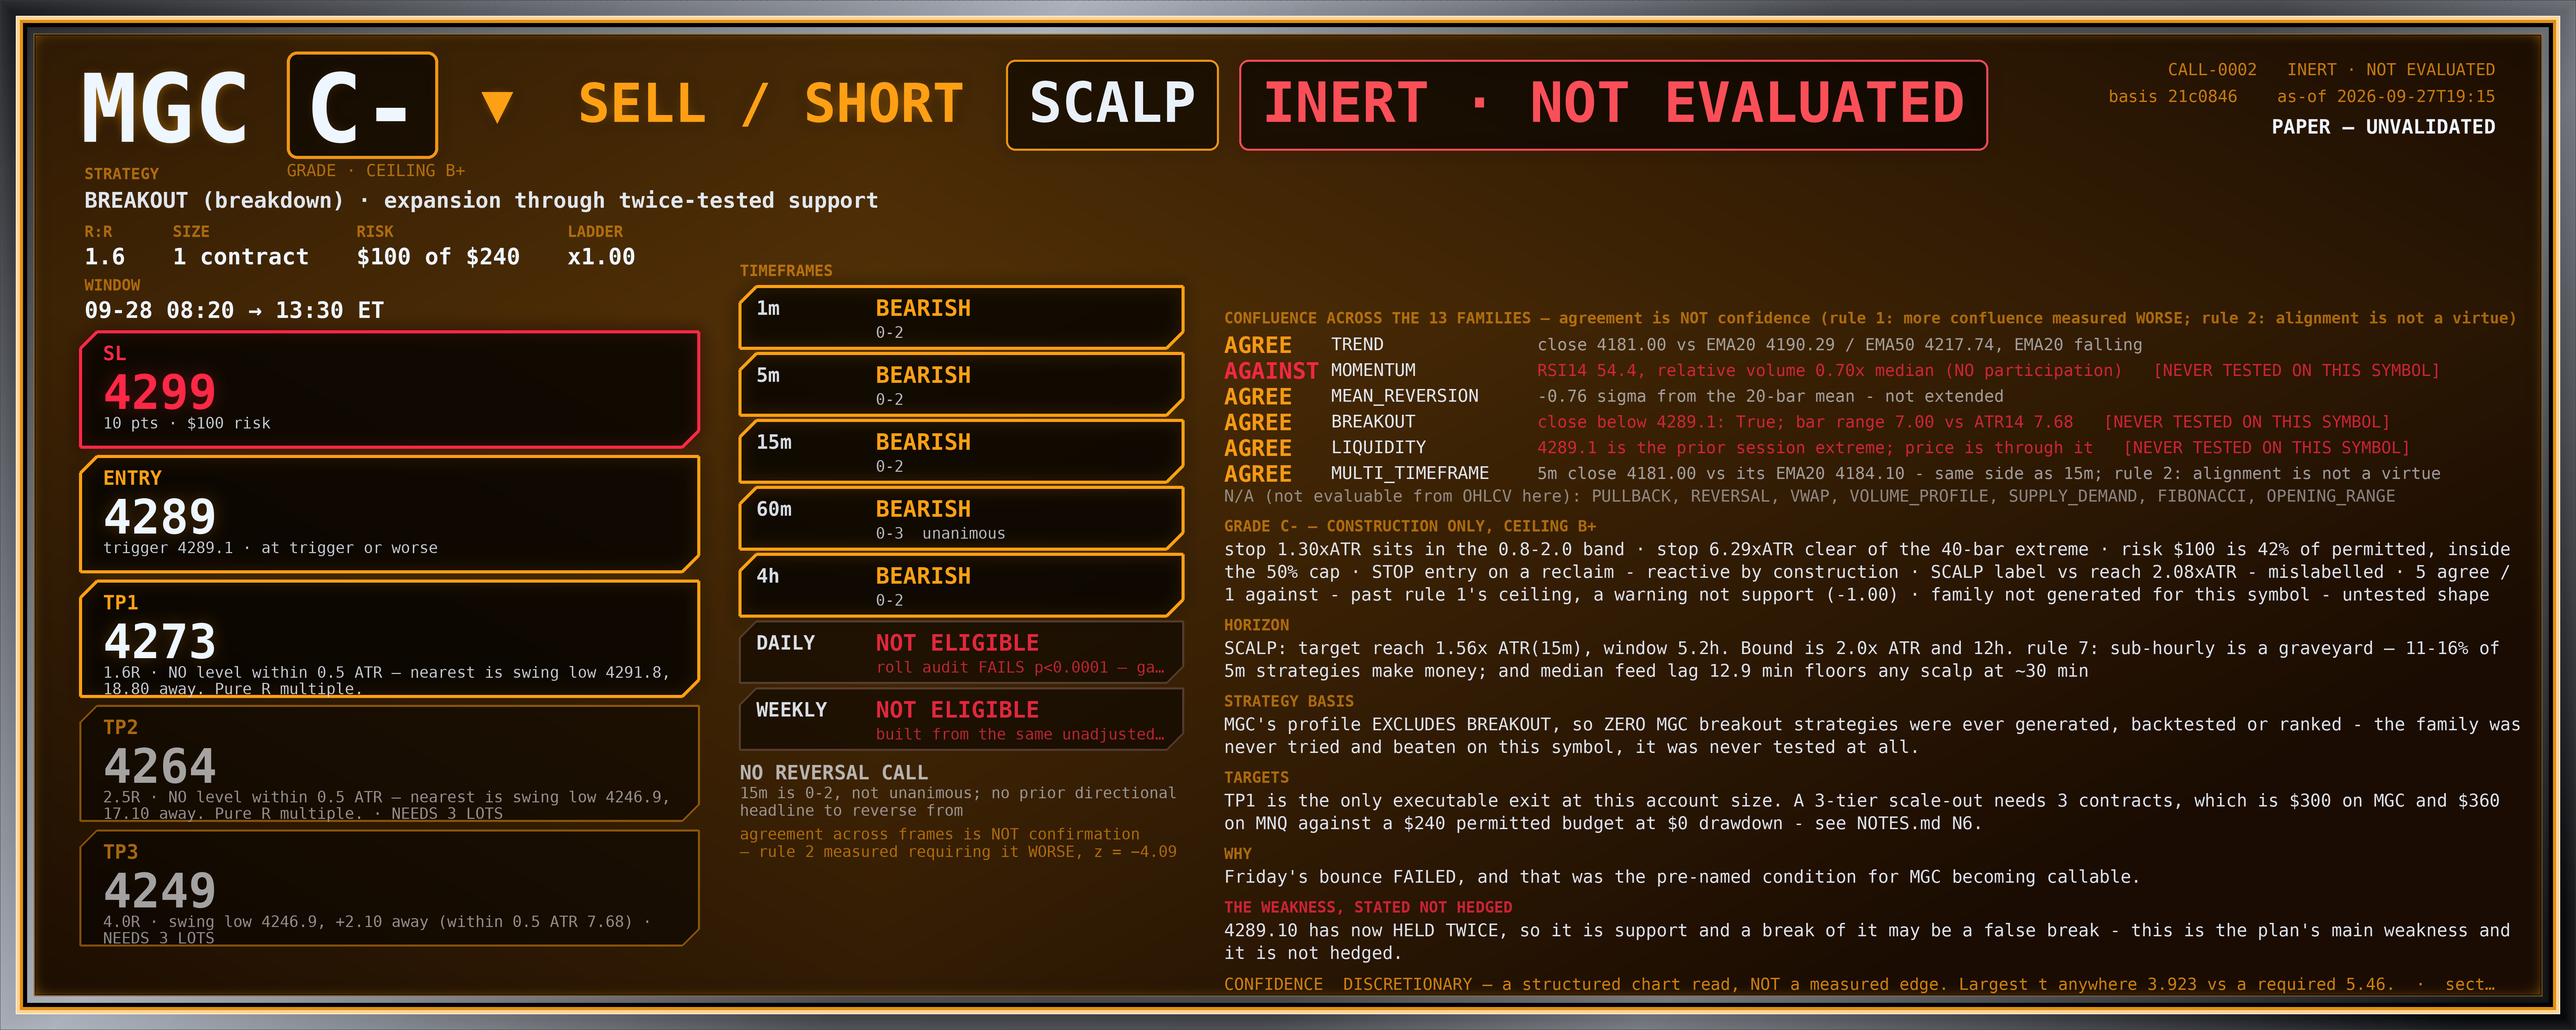
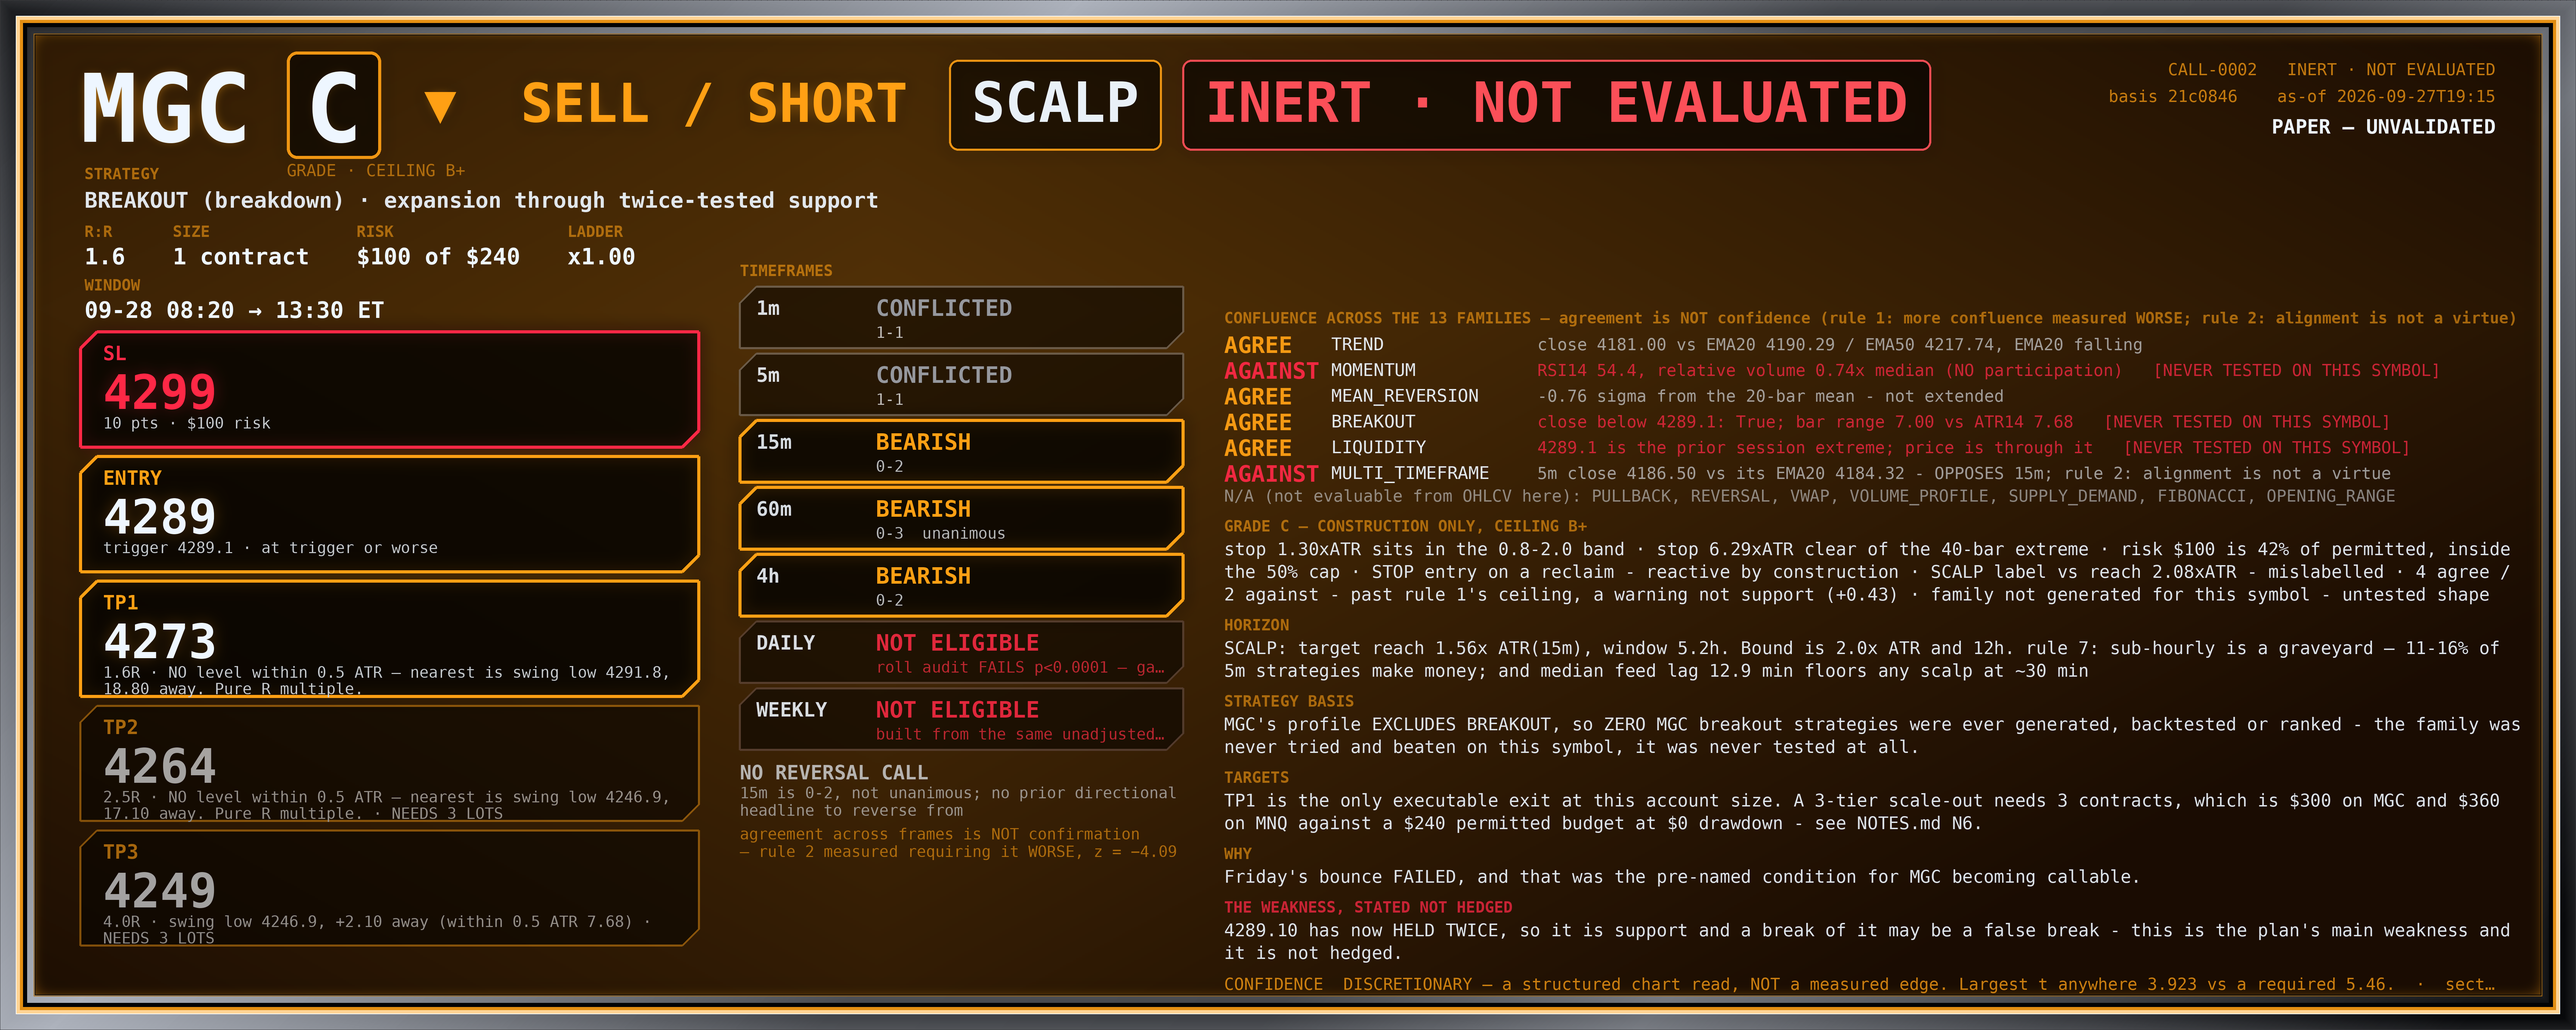
CALL desk: N142 - MNQ's 5m is above the 30670 threshold but the 15m has not seen it; decision point ~08:16
MNQ's 08:00 5m bar is h 30686.75 l 30610.50 c 30673.25 - a 76.25-point range with its close
ABOVE the 30670.00 threshold the location component needs. But location runs on the 15m
frame, whose newest bar is still 07:45 at close 30639.75, needing +30.25. The 08:00 15m bar
completes at 08:15 and publishes ~08:16, and that is the decision point: if its close holds
above 30670.00, location turns BULL, the 15m goes unanimous and reversal() fires.

Same frame conflation as N119 and named before rather than after: MNQ has genuinely traded
through the level and the test that fires on it has not been given the chance to look yet.
reversal() now returns held 14 with agreeing_frames [5, 1440, 10080] and the sole failure
"15m is 2-0, not unanimous".

N143: N140's rule worked on its first live use. Location moved 46.9% -> 46.6%; the fetch line
reads MNQ 15m (+0 new, 2 revised) and the window is unchanged, so it is a revision - and the
07:45 close indeed went 30640.50 -> 30639.75. Four seconds to establish instead of the
delta-file archaeology N140 needed. Fifth decomposition, second revision case, first one I did
not have to investigate.

N144: MGC's 08:00 5m bar is h 4190.50 l 4178.70 c 4186.50, an 11.80-point range on a 8.20 ATR
and its widest in some time, but the 15m frame is still on 07:45 at close 4181.00 so the 15m
readings do not contain it - trend BEAR, structure MIXED with both legs inside noise, location
[…]

diff --git a/workspace/paper/CALL/NOTES.md b/workspace/paper/CALL/NOTES.md
@@ -5260,3 +5260,53 @@ MGC: tenth consecutive inert check — structure MIXED with both legs inside noi
 
 No call. Two plans PENDING; ledger unchanged at open 0, closed 0, equity $50,000.00, drawdown $0.00.
 **MGC RTH opens 08:20 ET, 11 minutes out**, and CALL-0002's window opens with it.
+
+## N142 — MNQ's 5m has traded ABOVE the 30670 threshold, but the 15m frame has not seen it. Flagging the frame distinction before making N119's error again
+
+MNQ's `08:00` **5m** bar: `h 30686.75 l 30610.50 c 30673.25` — a 76.25-point range, and **its close is above the
+30670.00 threshold** the location component needs.
+
+**But the location test runs on the 15m frame, and the 15m frame's newest bar is still `07:45`** with close
+**30639.75**. The `08:00` 15m bar completes at 08:15 and publishes around 08:16. So:
+
+    5m  frame:  close 30673.25   ABOVE the 30670.00 threshold
+    15m frame:  close 30639.75   needs +30.25   <- this is the one that decides
+
+This is the same frame conflation as N119 (a 5m high quoted against a 15m structure test) and I am naming it
+before rather than after: **MNQ has genuinely traded through the level, and the test that fires on it has not
+been given the chance to look yet.** The decision point is **~08:16**, when the `08:00` 15m bar publishes. If
+its close holds above 30670.00, location turns BULL, the 15m goes unanimous, and `reversal()` fires.
+
+`reversal()` now returns `held: 14` — the BULLISH 15m headline has persisted fourteen consecutive checks — with
+`agreeing_frames [5, 1440, 10080]` and the sole failure `"15m is 2-0, not unanimous"`.
+
+## N143 — N140's rule worked on its first live use, immediately
+
+The location reading moved **46.9% -> 46.6%** this check. N140's test is: *if `fetch.py` reports `new=0` on the
+15m frame, any change is a revision or the window, never a price move.* The fetch line reads
+`MNQ 15m (+0 new, 2 revised)` and the window is unchanged at [30535.00, 30760.00] — **so it is a revision**, and
+indeed the `07:45` close went 30640.50 -> **30639.75**, down 0.75.
+
+That took four seconds to establish instead of the delta-file archaeology N140 needed, and it is the first of
+tonight's constructions to pay off on its very next use. Fifth decomposition, second revision case, and the
+first one I did not have to investigate.
+
+## N144 — 08:14 state, six minutes from MGC's RTH open
+
+MGC's `08:00` 5m bar: `h 4190.50 l 4178.70 c 4186.50`, an 11.80-point range — its widest 5m bar in some time,
+on a 8.20 ATR. But as with MNQ the 15m frame is still on `07:45` (close 4181.00), so MGC's 15m readings do not
+contain it: trend BEAR (4181.00 < EMA20 4189.68, falling), structure MIXED with both legs inside noise,
+location **10.8%** of [4172.60, 4250.70]. Eleventh consecutive inert 15m check even as the 5m starts to move.
+
+MGC frames: 1m, 5m, 15m, 60m and 4h all bearish; daily/weekly NOT ELIGIBLE. `reversal()` fails on 15m not
+unanimous **and** no prior directional headline — MGC has never had a non-bearish 15m headline all session, so
+it has nothing to reverse *from*. That is a third independent reason MGC cannot produce a reversal call
+tonight, alongside N117's unreachable HTF gate.
+
+No call. Two plans PENDING; ledger unchanged at open 0, closed 0, equity $50,000.00, drawdown $0.00.
+
+**MGC RTH opens 08:20 ET — six minutes.** Two things happen there: the tape enters the only session this
+repository has ever measured, and **CALL-0002's window opens.** CALL-0002 has never once been evaluated because
+its `created_bar_ts` is stamped in the future (N30), so the first thing to establish after 08:20 is whether
+`resolve.py` now sees it at all — and if it does, it will be seeing six hours of price it was never shown,
+which is why the plan is to be retired with an honest non-outcome rather than allowed to resolve.
